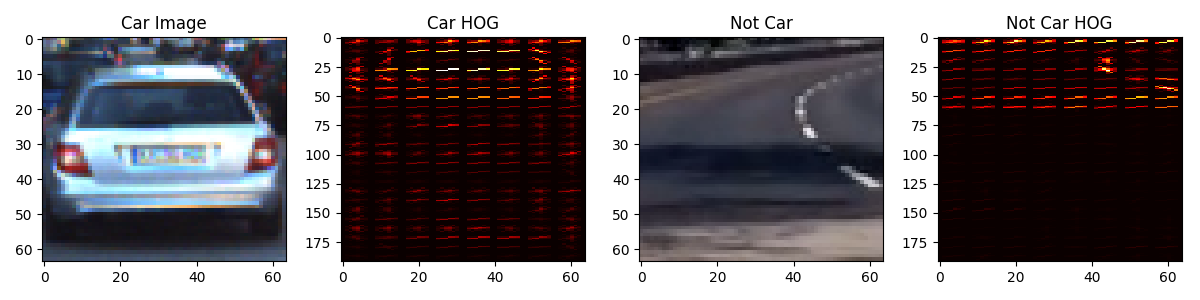
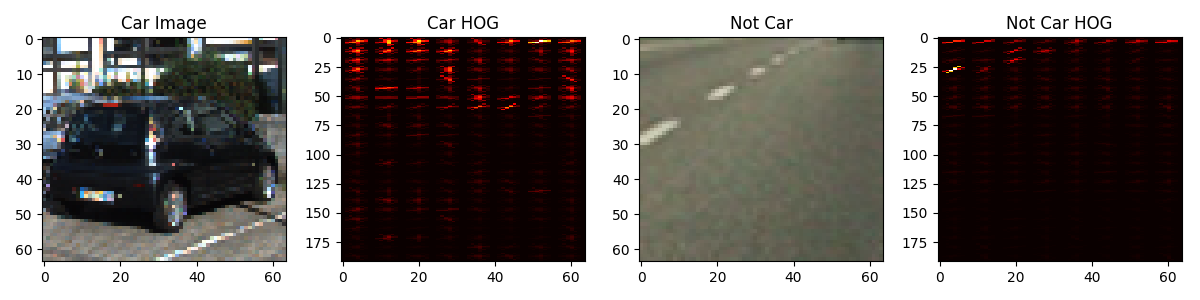
Playing with HOG parameters, pt 1

diff --git a/python_funcs.py b/python_funcs.py
@@ -415,7 +415,7 @@ def show_or_save(output_file_name='did_not_supply_file_name.png'):
     plt.figure()
 
 def run_feature_test(test_images, output_file_name='test_feature.png'):
-    print('Testing out by picking randomly from {} images'.format(len(test_images)))
+    print('Testing out feature extraction by picking randomly from {} images'.format(len(test_images)))
     features = extract_features(
         test_images,
         color_space='RGB',
@@ -451,6 +451,7 @@ def run_feature_test(test_images, output_file_name='test_feature.png'):
 
 
 def run_sliding_windows_test(test_images, output_file_name='sliding_window_test.png'):
+    print('Testing out sliding windows')
     jpg_img_idx = np.random.randint(1, 7)
     image = mpimg.imread('./test_images/test{}.jpg'.format(jpg_img_idx))
 
@@ -491,6 +492,7 @@ def from_data_set(num_samples=None):
         return cars, notcars
 
 def run_window_search_test(test_images, output_file_name='search_slide_test.png'):
+    print('Running window search test with classification')
     # Read in cars and notcars
     cars, notcars = from_data_set(num_samples=1000)
         #from_test_images(test_images)
@@ -498,11 +500,11 @@ def run_window_search_test(test_images, output_file_name='search_slide_test.png'
     ### TODO: Tweak these parameters and see how the results change.
     color_space = 'YCrCb'  # Can be RGB, HSV, LUV, HLS, YUV, YCrCb
     orient = 9  # HOG orientations
-    pix_per_cell = 8  # HOG pixels per cell
-    cell_per_block = 2  # HOG cells per block
+    pix_per_cell = 7  # HOG pixels per cell
+    cell_per_block = 3  # HOG cells per block
     hog_channel = ALL_HOG_CHANNELS  # Can be 0, 1, 2, or "ALL"
     spatial_size = (16, 16)  # Spatial binning dimensions
-    hist_bins = 16  # Number of histogram bins
+    hist_bins = 12  # Number of histogram bins
     spatial_feat = True  # Spatial features on or off
     hist_feat = True  # Histogram features on or off
     hog_feat = True  # HOG features on or off
@@ -590,6 +592,7 @@ def run_window_search_test(test_images, output_file_name='search_slide_test.png'
 
 # Thanks to Q&A
 def visualize_hog(output_file_name='visualize_hog.png'):
+    print('Visualizing hog features')
     car_ind = np.random.randint(0, len(cars))
     notcar_ind = np.random.randint(0, len(notcars))
 
@@ -625,6 +628,7 @@ else:
     run_feature_test(test_images, 'feature_test.png')
     run_sliding_windows_test(test_images)
     visualize_hog()
+    visualize_hog(output_file_name='visualize_hog2.png')
     run_window_search_test(test_images)
 
     del test_images
